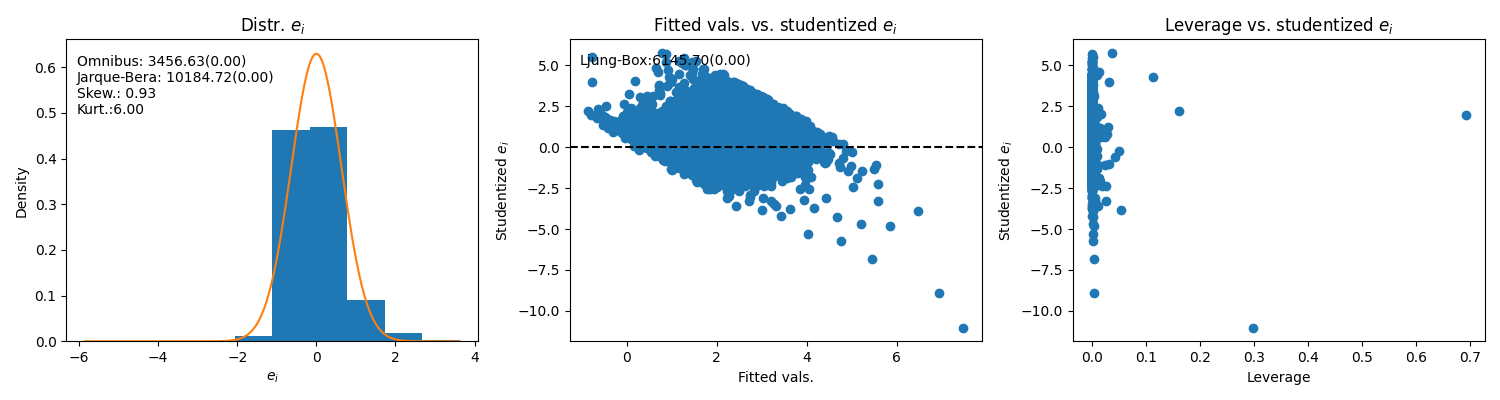
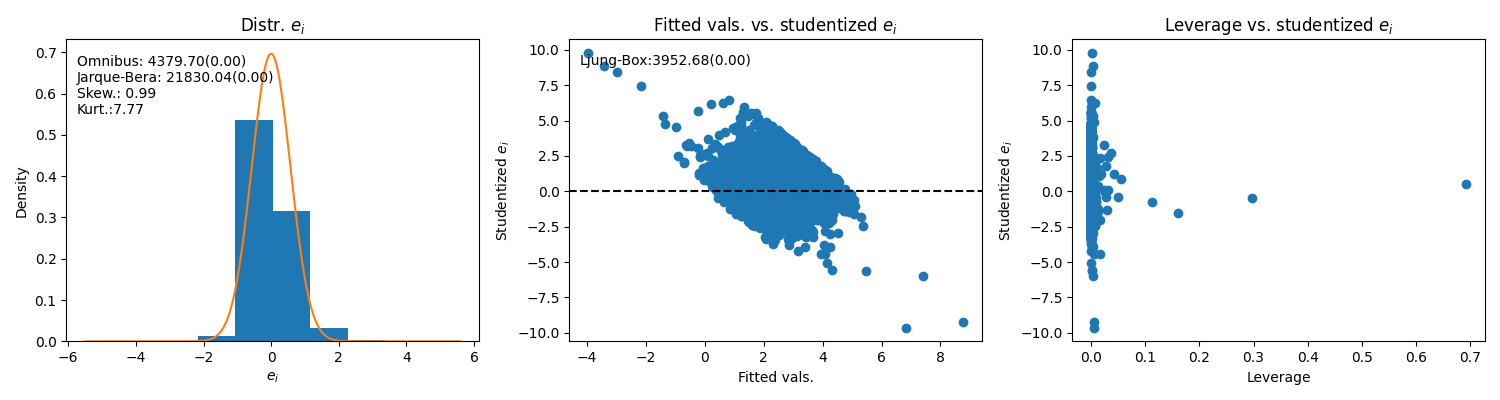
update

diff --git a/mlr.py b/mlr.py
@@ -14,6 +14,7 @@ from sklearn.datasets import fetch_california_housing
 from sklearn.preprocessing import StandardScaler
 from sklearn.linear_model import Ridge
 import statsmodels.api as sm
+import statsmodels.formula.api as smf
 from statsmodels.stats.diagnostic import acorr_ljungbox
 from statsmodels.stats.stattools import omni_normtest, jarque_bera
 from statsmodels.stats.outliers_influence import OLSInfluence
@@ -230,10 +231,9 @@ class MLR:
         plt.savefig(filename)
 
     def plot_y_obs_vs_y_pred(self, filename):
-        y_obs = self.model_sample.model.endog
-        y_pred = self.y_hat
+
         fig, ax = plt.subplots()
-        ax.scatter(y_obs, y_pred)
+        ax.scatter(self.y, self.y_hat)
         ax.set_ylabel('y pred')
         ax.set_xlabel('y obs')
         plt.savefig(filename)
@@ -308,10 +308,6 @@ class MLR:
         ax.legend()
         plt.tight_layout()
         plt.savefig('mlr_3d_example_collinearity_dependent.png')
-
-
-
-        exit()
 
     def collinearity_2d_example(self):
 
@@ -397,30 +393,35 @@ class MLR:
         })
         print(coef_summary)
 
-
     def california_housing(self):
 
         ch = fetch_california_housing()
 
         self.X = pd.DataFrame(ch.data, columns = ch.feature_names)
-        self.X = sm.add_constant(self.X)
         self.y = pd.DataFrame(ch.target, columns=['med_house_val_100k'])
+        self.df = pd.concat([self.y, self.X], axis=1)
 
         # remove censored data y>=5
         idx = self.y['med_house_val_100k'] < 5
         self.y = self.y.loc[idx, :]['med_house_val_100k']
         self.X = self.X.loc[idx, :]
+        self.df = self.df.loc[idx, :]
 
         self.y_distribution(bins=np.arange(0, 5.25, 0.25), filename='mlr_y_distribution_california_housing.png')
 
         self.diagnose_collinearity(center=False)
 
-        self.model_sample = sm.OLS(self.y, self.X)
-        self.model_sample = self.model_sample.fit()
+        main_effects = ' + '.join(self.X.columns)
+        squares = ' + '.join([f'I({x}**2)' for x in self.X.columns])
+        formula = f'med_house_val_100k ~ ({main_effects})**2 + {squares}'
+        self.model_sample = smf.ols(formula, data=self.df).fit()
         self.y_hat = self.model_sample.predict(self.X)
+        self.e_i = self.y - self.y_hat
+
         print(self.model_sample.summary())
 
-        self.fit_ridge_regression()
+        #self.fit_ridge_regression()
+        
         self.compute_residuals_stats()
         self.compute_diagnostics()
         self.plot_y_obs_vs_y_pred('mlr_y_obs_y_pred_california_housing.png')

diff --git a/README.md b/README.md
@@ -30,7 +30,7 @@ $\text{Var}(\hat{\beta}) = \sigma^2(X^TX)^{-1}$
 
 This means that, **under the homoscedasticity assumption** (!), $\text{Var}(\hat{\beta})$ is related to 1) the variance of the residuals $\sigma^2 = \text{Var}(\epsilon)$ and 2) $X^TX$ (so-called Gram matrix), which captures the degree to which regressors line up in $n$-dimensional space ($n$ = no. observations).
 
-$\sigma^2$ is not observable, so we have to use the sample estimate $\text{RSE} = \hat{\sigma}^2 = \text{RSS}/(n-p-1)$, with $p$ = no. regressors (=1 in OLS) and $\text{RSS} = e^Te$, where $e$ = sample residuals (see below). $\text{RSE}$ = Residual Standard Error and $\text{RSS}$ = Residual Sum of Squares. We're allowed to use $\text{RSE}$ as an estimate of $\sigma^2$ becasue, _if the OLS assumptions hold_, $E(\hat{\sigma}^2) = E(\text{RSE}) = \sigma^2$
+$\sigma^2$ is not observable, so we have to use the sample estimate $\text{RSE} = \hat{\sigma}^2 = \text{RSS}/(n-p-1)$, with $p$ = no. regressors (=1 in OLS) and $\text{RSS} = e^Te$, where $e$ = sample residuals (see below). Note that $e^Te$, which is a scalar, is not the same as $ee^T$, which is the variance-covariance matrix of the sample residuals (see section on heteroscedasticity below). $\text{RSE}$ = Residual Standard Error and $\text{RSS}$ = Residual Sum of Squares. We're allowed to use $\text{RSE}$ as an estimate of $\sigma^2$ becasue, _if the OLS assumptions hold_, $E(\hat{\sigma}^2) = E(\text{RSE}) = \sigma^2$
 
 The entries in $X^TX$ are just the dot-products $X_j^TX_j$ for the diagonal elements and $X_j^TX_{-j}$ for the off-diagonal elements. The former are related to the variance of regressor $X_j$ and the latter to the pairwise covariances between $X_j$ and each of the other regressors $X_{-j}$.
 
